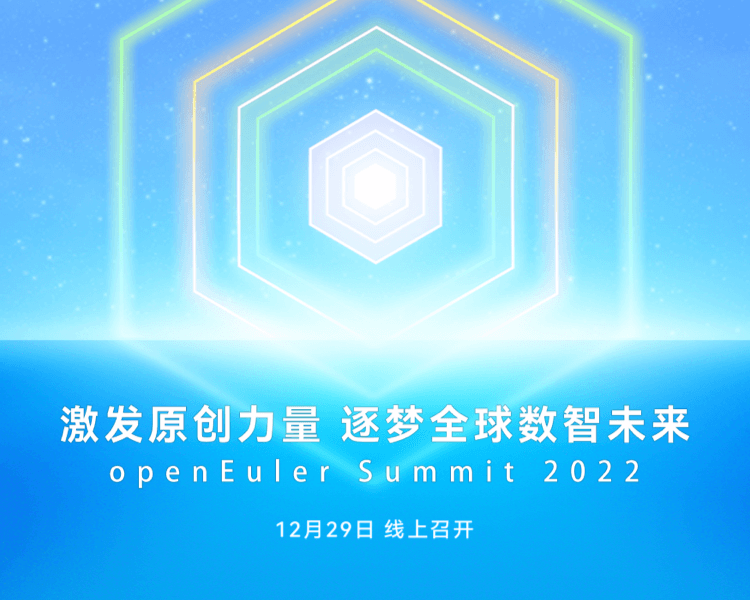
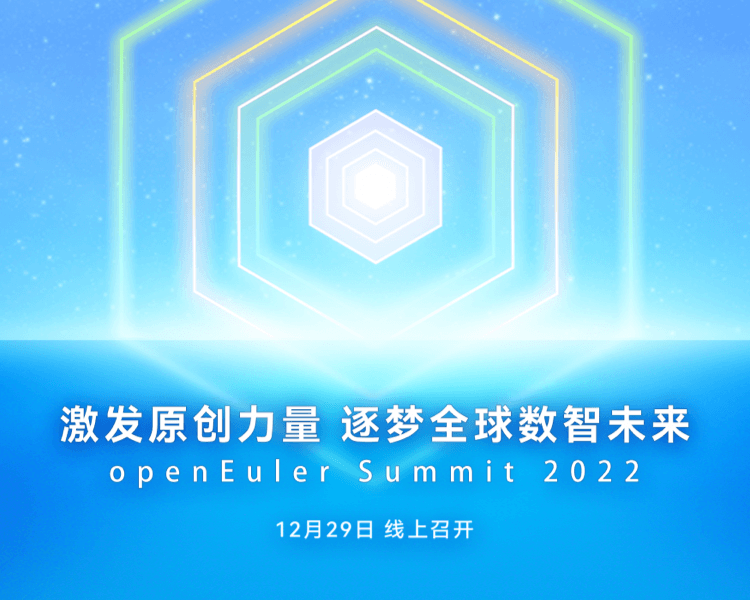
fix:banner调整

Changed region(s): [[0.0613, 0.66, 0.9507, 0.81]]

diff --git a/app/.vitepress/src/views/support/compatibility/TheCompatibility.vue b/app/.vitepress/src/views/support/compatibility/TheCompatibility.vue
@@ -858,7 +858,9 @@ onMounted(() => {
             width="120"
           ></OTableColumn>
           <OTableColumn
-            :label="i18n.compatibility.BUSINESS_SOFTWARE_TABLE_COLUMN.SOFTWARETYPE"
+            :label="
+              i18n.compatibility.BUSINESS_SOFTWARE_TABLE_COLUMN.SOFTWARETYPE
+            "
             prop="type"
             width="120"
           ></OTableColumn>
@@ -940,7 +942,7 @@ onMounted(() => {
           <a href="#" @click="goBackPage">{{
             i18n.compatibility.BUSINESS_SOFTWARE_OEC_DETAIL.TITLE
           }}</a>
-          <br/>
+          <br />
           {{ i18n.compatibility.BUSINESS_SOFTWARE_OEC_DETAIL.TEXT_2 }}
         </p>
       </div>
@@ -1446,7 +1448,7 @@ onMounted(() => {
             <a href="#" @click="goBackPage">{{
               i18n.compatibility.BUSINESS_SOFTWARE_OEC_DETAIL.TITLE
             }}</a>
-            <br/>
+            <br />
             {{ i18n.compatibility.BUSINESS_SOFTWARE_OEC_DETAIL.TEXT_2 }}
           </p>
         </el-collapse-item>

diff --git a/app/.vitepress/src/api/api-login.ts b/app/.vitepress/src/api/api-login.ts
@@ -12,7 +12,7 @@ import { ElMessage } from 'element-plus';
  */
 type queryPermissionParams = {
   community: string;
-}
+};
 export function queryPermission(params: queryPermissionParams) {
   const url = '/oneid/user/permission';
   const { token } = getUserAuth();
@@ -27,7 +27,7 @@ export function queryPermission(params: queryPermissionParams) {
     })
     .then((res: AxiosResponse) => res.data)
     .catch((err) => {
-      const message = err?.response?.data?.message || ''
+      const message = err?.response?.data?.message || '';
       if (message !== 'token expires') {
         ElMessage({
           type: 'error',
@@ -52,7 +52,7 @@ export function queryIDToken() {
     })
     .then((res: AxiosResponse) => res.data)
     .catch((err) => {
-      const message = err?.response?.data?.message || ''
+      const message = err?.response?.data?.message || '';
       if (message !== 'token expires') {
         ElMessage({
           type: 'error',

diff --git a/app/.vitepress/src/i18n/support/compatibility/compatibility-zh.ts b/app/.vitepress/src/i18n/support/compatibility/compatibility-zh.ts
@@ -221,6 +221,7 @@ export default {
     DISCRIPTION_CONTENT:
       'openEuler提供了一系列的工具、文档和操作流程帮助用户进行软件的兼容性技术测评。如果您需要对某款软件展开兼容性测评，可参考下文进行。',
     PROCESS_TITLE: '兼容性技术测评流程',
-    TEXT_2: '商业发行版操作系统的软件兼容数据由对应的操作系统厂商提供，openEuler社区仅做数据展示，相关事宜请咨询操作系统厂商',
+    TEXT_2:
+      '商业发行版操作系统的软件兼容数据由对应的操作系统厂商提供，openEuler社区仅做数据展示，相关事宜请咨询操作系统厂商',
   },
 };

diff --git a/app/.vitepress/src/api/api-security.ts b/app/.vitepress/src/api/api-security.ts
@@ -189,14 +189,14 @@ export function getSoftwareList(params: cveQuery) {
  * @name businessSoftwareList
  */
 export function getBusinessSoftwareList(params: cveQuery) {
-  let queryData = {
+  const queryData = {
     pageSize: params['pages'].size,
     pageNo: params['pages'].page,
     testOrganization: params.testOrganization,
     osName: params.os,
     keyword: params.keyword,
     dataSource: new Array(params.dataSource),
-    productType: new Array("软件")
+    productType: new Array('软件'),
   };
   const url = ` /certification/software/communityChecklist`;
   return request

diff --git a/app/.vitepress/src/views/summit/TheSummit.vue b/app/.vitepress/src/views/summit/TheSummit.vue
@@ -158,10 +158,6 @@ const summitData = {
   margin: var(--o-spacing-h2) auto 0 auto;
   display: grid;
   grid-template-columns: repeat(3, 1fr);
-  @media screen and (max-width: 1470px) {
-    grid-template-columns: repeat(2, 1fr);
-    max-width: 948px;
-  }
   @media screen and (max-width: 968px) {
     grid-template-columns: repeat(1, 1fr);
     max-width: 474px;
